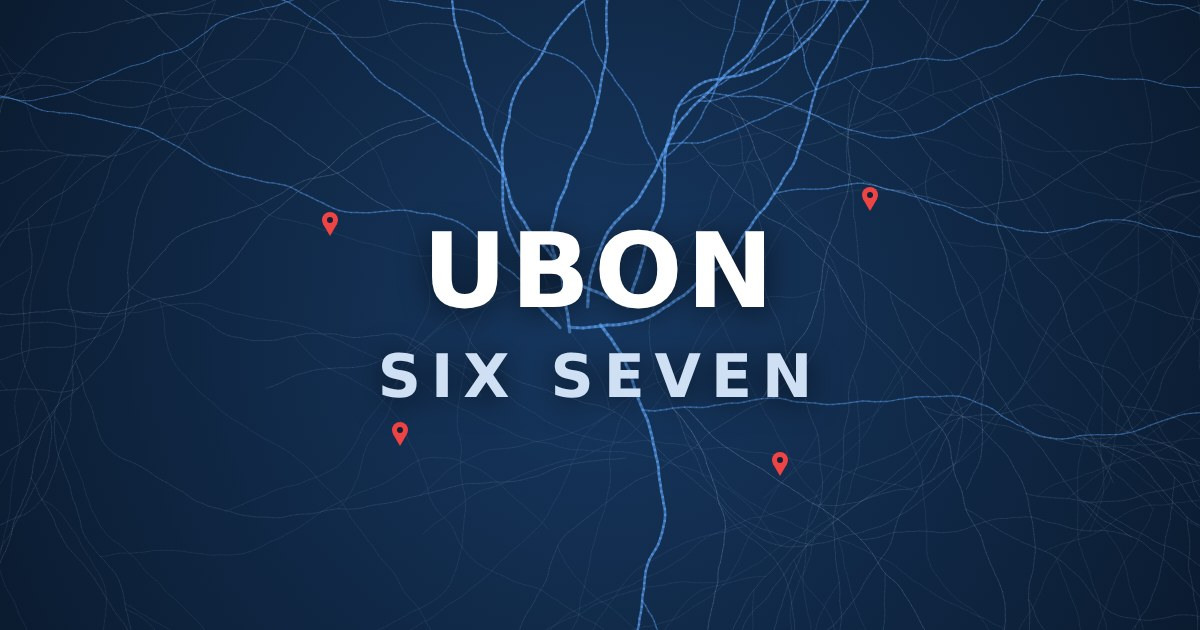
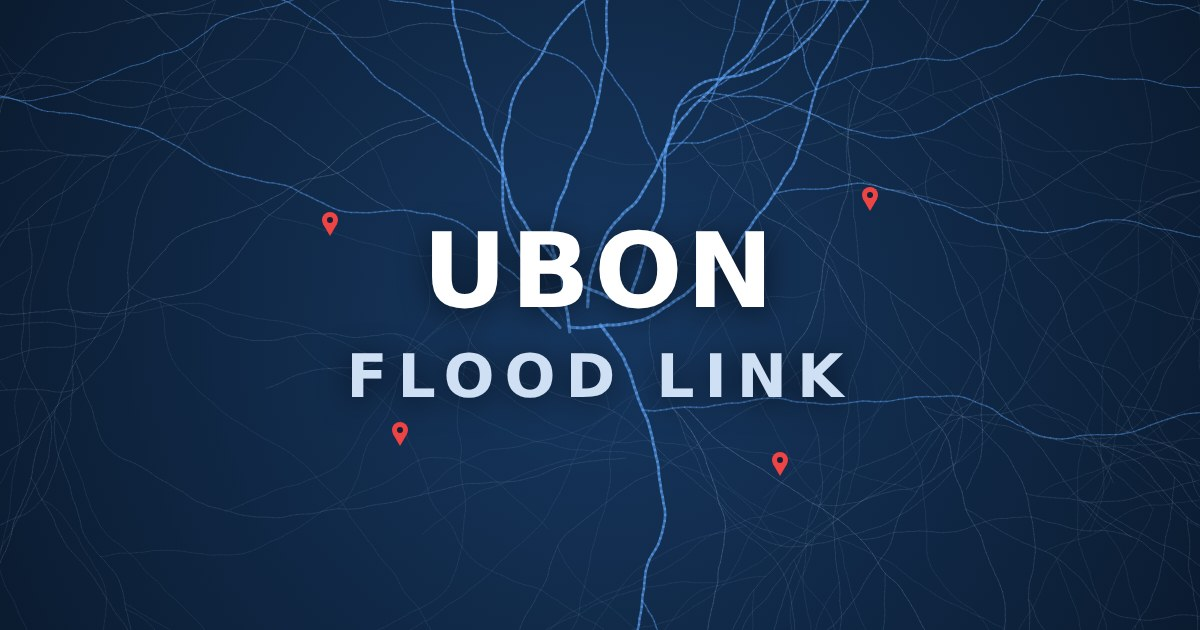
Rename site to UBON Flood Link
Claude-Session: https://claude.ai/code/session_01BdvSZ9au5XzeK9B1ZrFbwt

Changed region(s): [[0.2775, 0.5429, 0.7092, 0.6333]]

diff --git a/src/components/shell.tsx b/src/components/shell.tsx
@@ -52,7 +52,7 @@ function Logo({ compact = false }: { compact?: boolean }) {
         <Droplets className="size-5" strokeWidth={2.4} />
       </span>
       <span className="min-w-0">
-        <span className="block truncate text-base leading-tight font-bold tracking-tight text-surface">UBON Six Seven</span>
+        <span className="block truncate text-base leading-tight font-bold tracking-tight text-surface">UBON Flood Link</span>
         {compact ? null : (
           <span className="block truncate text-[11px] text-mist/80">เชื่อมปัญหา เชื่อมผู้คน เชื่อมความช่วยเหลือ</span>
         )}
@@ -88,7 +88,7 @@ function IntelBox({ onPick }: { onPick?: () => void }) {
   return (
     <div className="rounded-xl border border-side-line bg-white/5 p-3">
       <p className="flex items-center gap-2 text-xs font-bold tracking-wide text-[#fbbf24]">
-        <Lock className="size-3.5" /> UBON Six Seven Intelligence
+        <Lock className="size-3.5" /> UBON Flood Link Intelligence
       </p>
       <p className="mt-1 text-[11px] leading-relaxed text-mist/70">เฉพาะแอดมินและอาสาที่ยืนยันแล้ว</p>
       <IntelLink label="เข้าห้องข่าวกรอง →" className="mt-2 inline-flex text-xs font-semibold text-sky-300 hover:underline" onClick={onPick} />

diff --git a/src/components/intel-frame.tsx b/src/components/intel-frame.tsx
@@ -69,7 +69,7 @@ export function IntelFrame({
             <ShieldCheck className="size-5" />
           </span>
           <span className="leading-tight">
-            <span className="block text-base font-bold text-surface">UBON Six Seven</span>
+            <span className="block text-base font-bold text-surface">UBON Flood Link</span>
             <span className="block text-[11px] font-semibold tracking-[0.2em] text-[#fbbf24]">INTELLIGENCE</span>
           </span>
         </Link>
@@ -123,7 +123,7 @@ export function IntelFrame({
               <ArrowLeft className="size-4" />
             </Link>
             <div className="min-w-0 flex-1 leading-tight">
-              <p className="text-sm font-bold text-surface">UBON Six Seven</p>
+              <p className="text-sm font-bold text-surface">UBON Flood Link</p>
               <p className="text-[10px] font-semibold tracking-[0.2em] text-[#fbbf24]">INTELLIGENCE</p>
             </div>
             {member.role === "admin" ? <Link to="/coord" aria-label="คำร้องใหม่" className="relative grid size-9 place-items-center rounded-xl bg-white/10 text-surface">

diff --git a/src/routes/__root.tsx b/src/routes/__root.tsx
@@ -10,13 +10,13 @@ export const Route = createRootRoute({
     meta: [
       { charSet: "utf-8" },
       { name: "viewport", content: "width=device-width, initial-scale=1" },
-      { title: "UBON Six Seven" },
+      { title: "UBON Flood Link" },
       {
         name: "description",
         content: "แพลตฟอร์มประสานความช่วยเหลือน้ำท่วมจังหวัดอุบลราชธานี",
       },
       { name: "theme-color", content: "#122033" },
-      { property: "og:title", content: "UBON Six Seven" },
+      { property: "og:title", content: "UBON Flood Link" },
       { property: "og:description", content: "แพลตฟอร์มประสานความช่วยเหลือน้ำท่วมจังหวัดอุบลราชธานี" },
       { property: "og:image", content: "/og.jpg" },
       { name: "twitter:card", content: "summary_large_image" },

diff --git a/src/routes/about.tsx b/src/routes/about.tsx
@@ -16,7 +16,7 @@ function About() {
       <div className="mx-auto w-full max-w-lg px-4 py-4">
         <PageIntro
           title="เกี่ยวกับโครงการ"
-          lede="UBON Six Seven เป็นต้นแบบศูนย์ประสานน้ำท่วมของจังหวัดอุบลราชธานี สำหรับเครือข่ายมหาวิทยาลัย ชุมชน และหน่วยช่วยเหลือ"
+          lede="UBON Flood Link เป็นต้นแบบศูนย์ประสานน้ำท่วมของจังหวัดอุบลราชธานี สำหรับเครือข่ายมหาวิทยาลัย ชุมชน และหน่วยช่วยเหลือ"
         />
         <div className="space-y-3 text-sm leading-relaxed">
           <Panel>

diff --git a/src/routes/admin/login.tsx b/src/routes/admin/login.tsx
@@ -34,7 +34,7 @@ function AdminLogin() {
       <div className="mx-auto w-full max-w-lg px-4 py-4">
         <PageIntro
           title="เข้าสู่ระบบแอดมิน"
-          lede="รหัสตรวจบนเซิร์ฟเวอร์ เข้าครั้งเดียวใช้ได้ทั้งศูนย์ประสานและ UBON Six Seven Intelligence"
+          lede="รหัสตรวจบนเซิร์ฟเวอร์ เข้าครั้งเดียวใช้ได้ทั้งศูนย์ประสานและ UBON Flood Link Intelligence"
         />
         {role === "coordinator" ? (
           <Panel>

diff --git a/vite.config.ts b/vite.config.ts
@@ -28,7 +28,7 @@ function hasGlobbedMigrations(root: string): boolean {
  */
 function pgliteBootstrapPlugin(): Plugin {
   return {
-    name: "ubon-six-seven:pglite-bootstrap",
+    name: "ubon-flood-link:pglite-bootstrap",
     apply: "serve",
     async configureServer(server) {
       if (!hasGlobbedMigrations(server.config.root)) return;
@@ -40,7 +40,7 @@ function pgliteBootstrapPlugin(): Plugin {
           await mod.ensureDbReady();
         }
       } catch (err) {
-        console.error("[ubon-six-seven] DB bootstrap failed:", err);
+        console.error("[ubon-flood-link] DB bootstrap failed:", err);
         throw err;
       }
     },

diff --git a/src/routes/intel-denied.tsx b/src/routes/intel-denied.tsx
@@ -15,7 +15,7 @@ function Denied() {
   return (
     <AppShell>
       <div className="mx-auto max-w-lg px-4 py-8">
-        <p className="text-xs text-muted">UBON Six Seven Intelligence</p>
+        <p className="text-xs text-muted">UBON Flood Link Intelligence</p>
         <h1 className="mt-2 text-2xl font-medium text-navy">เข้าห้องนี้ไม่ได้</h1>
         <p className="mt-3 text-sm leading-relaxed text-muted">
           {reason === "pending"

diff --git a/src/components/intel-link.tsx b/src/components/intel-link.tsx
@@ -5,7 +5,7 @@ import { getIntelAccess } from "@/lib/intel/fns";
 export function IntelLink({
   className,
   onClick,
-  label = "UBON Six Seven Intelligence",
+  label = "UBON Flood Link Intelligence",
 }: {
   className?: string;
   onClick?: () => void;

diff --git a/README.md b/README.md
@@ -1,4 +1,4 @@
-# UBON Six Seven
+# UBON Flood Link
 
 แพลตฟอร์มประสานความช่วยเหลือน้ำท่วมจังหวัดอุบลราชธานี เชื่อมคนที่เดือดร้อนเข้ากับผู้ประสานและอาสาสมัคร ผ่านคำร้อง แผนที่ และคิวงาน
 
